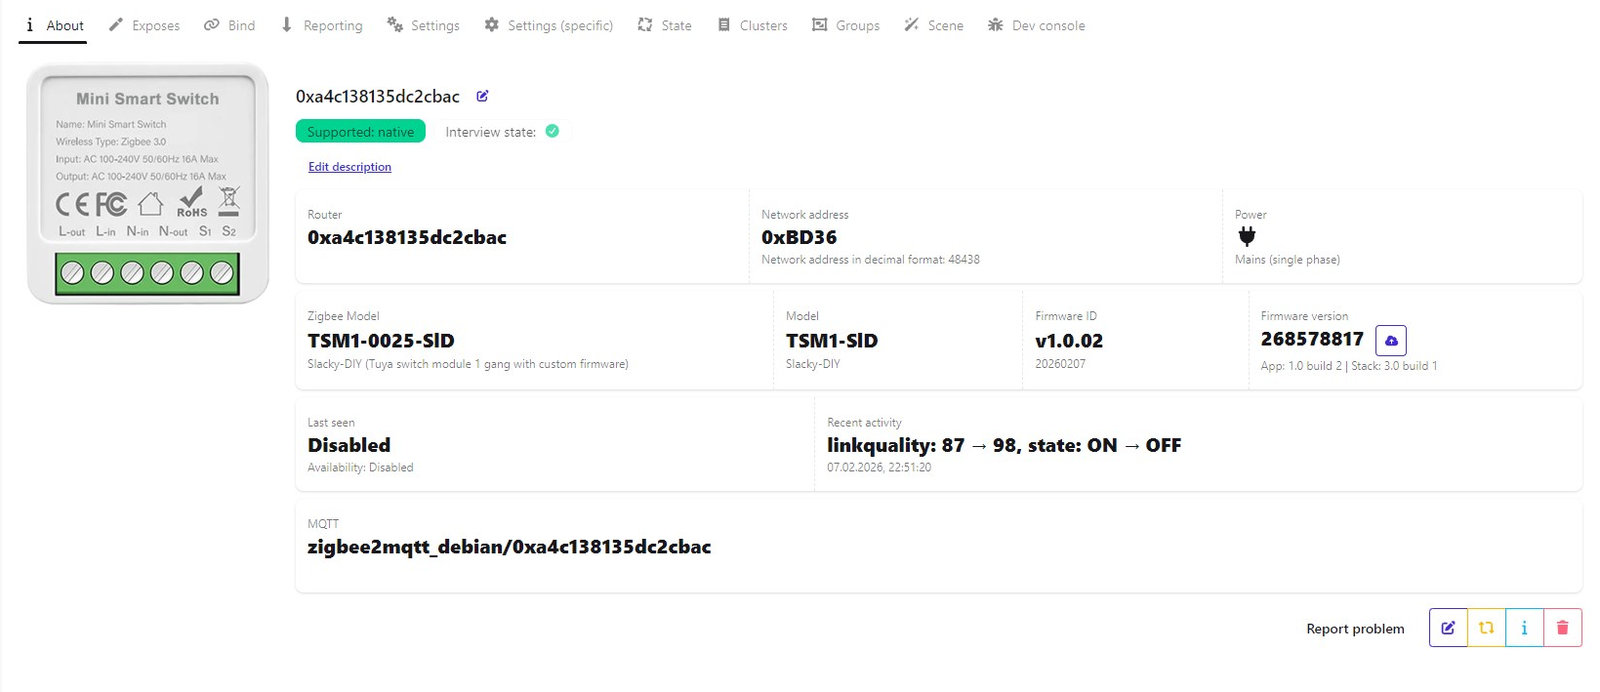
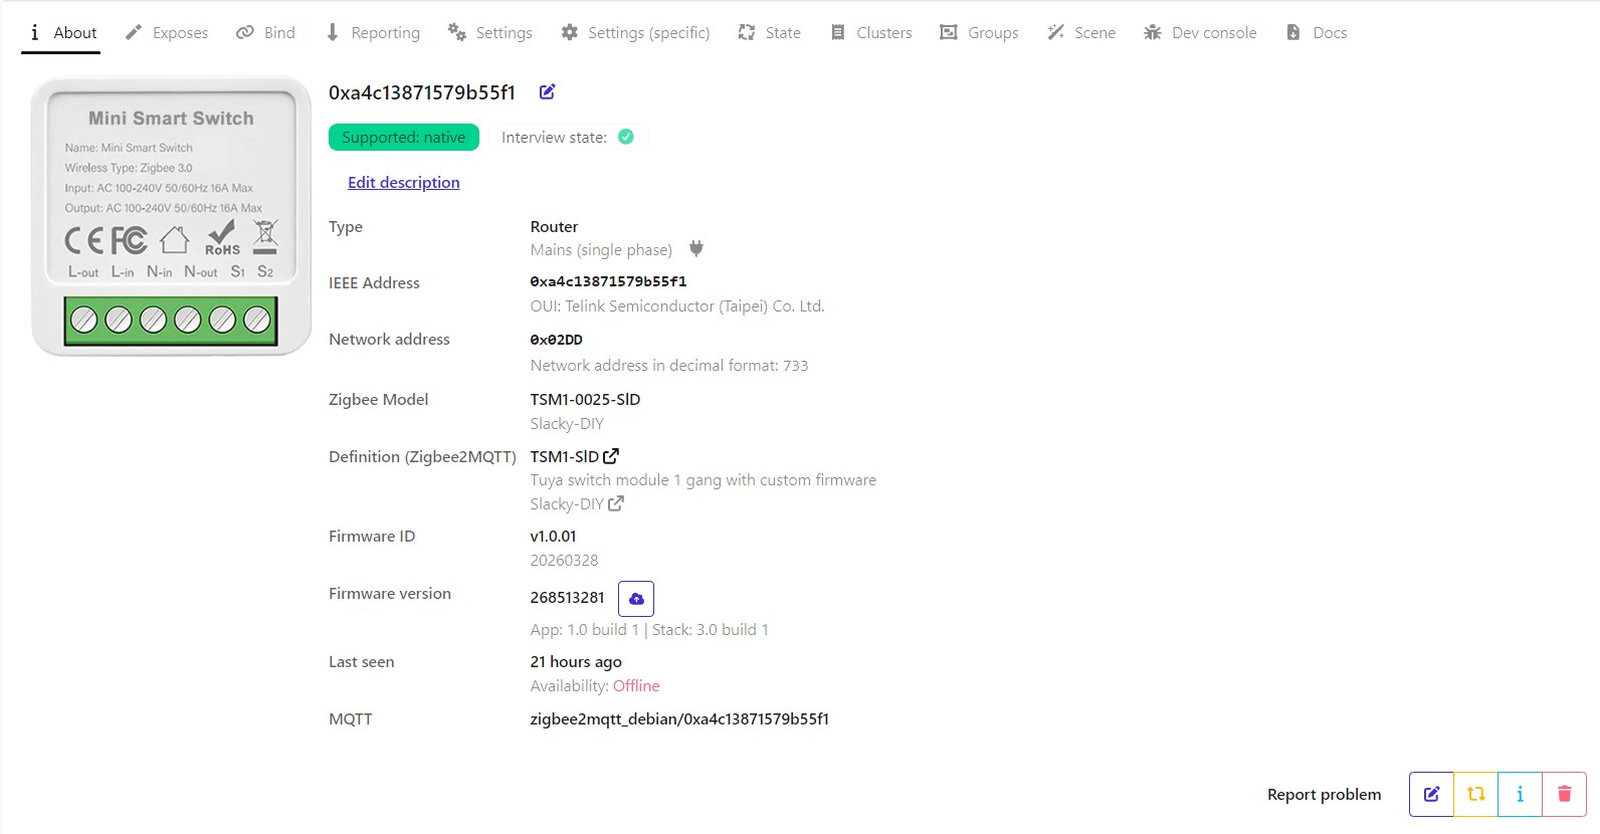
update readme

diff --git a/README.md b/README.md
@@ -1,12 +1,21 @@
 # <a id="Top">Tuya Switch Module 1 gang with custom firmware</a>
 
-### Custom firmware for Tuya Switch models
+[Repository watermeter_zed](https://github.com/slacky1965/tuya_mini_switch_1s_zrd)
 
-# TODO:
+---
 
-### Device Model
+<img src="doc/images/smart_switch_module.jpg"/>
 
-<img src="doc/images/device_model.jpg"/>
+---
+
+<img src="doc/images/z2m_about.jpg"/>
+
+---
+
+<img src="doc/images/z2m_exposes.jpg"/>
+
+---
+
 
 | Custom Model | Zigbee Model | Z2M Model | Zigbee Manufacturer| Manufacturer | Update method | Descriprion |
 |:------------:|:------------:|:---------:|:------------------:|:------------:|:-------------:|:-----------:|
